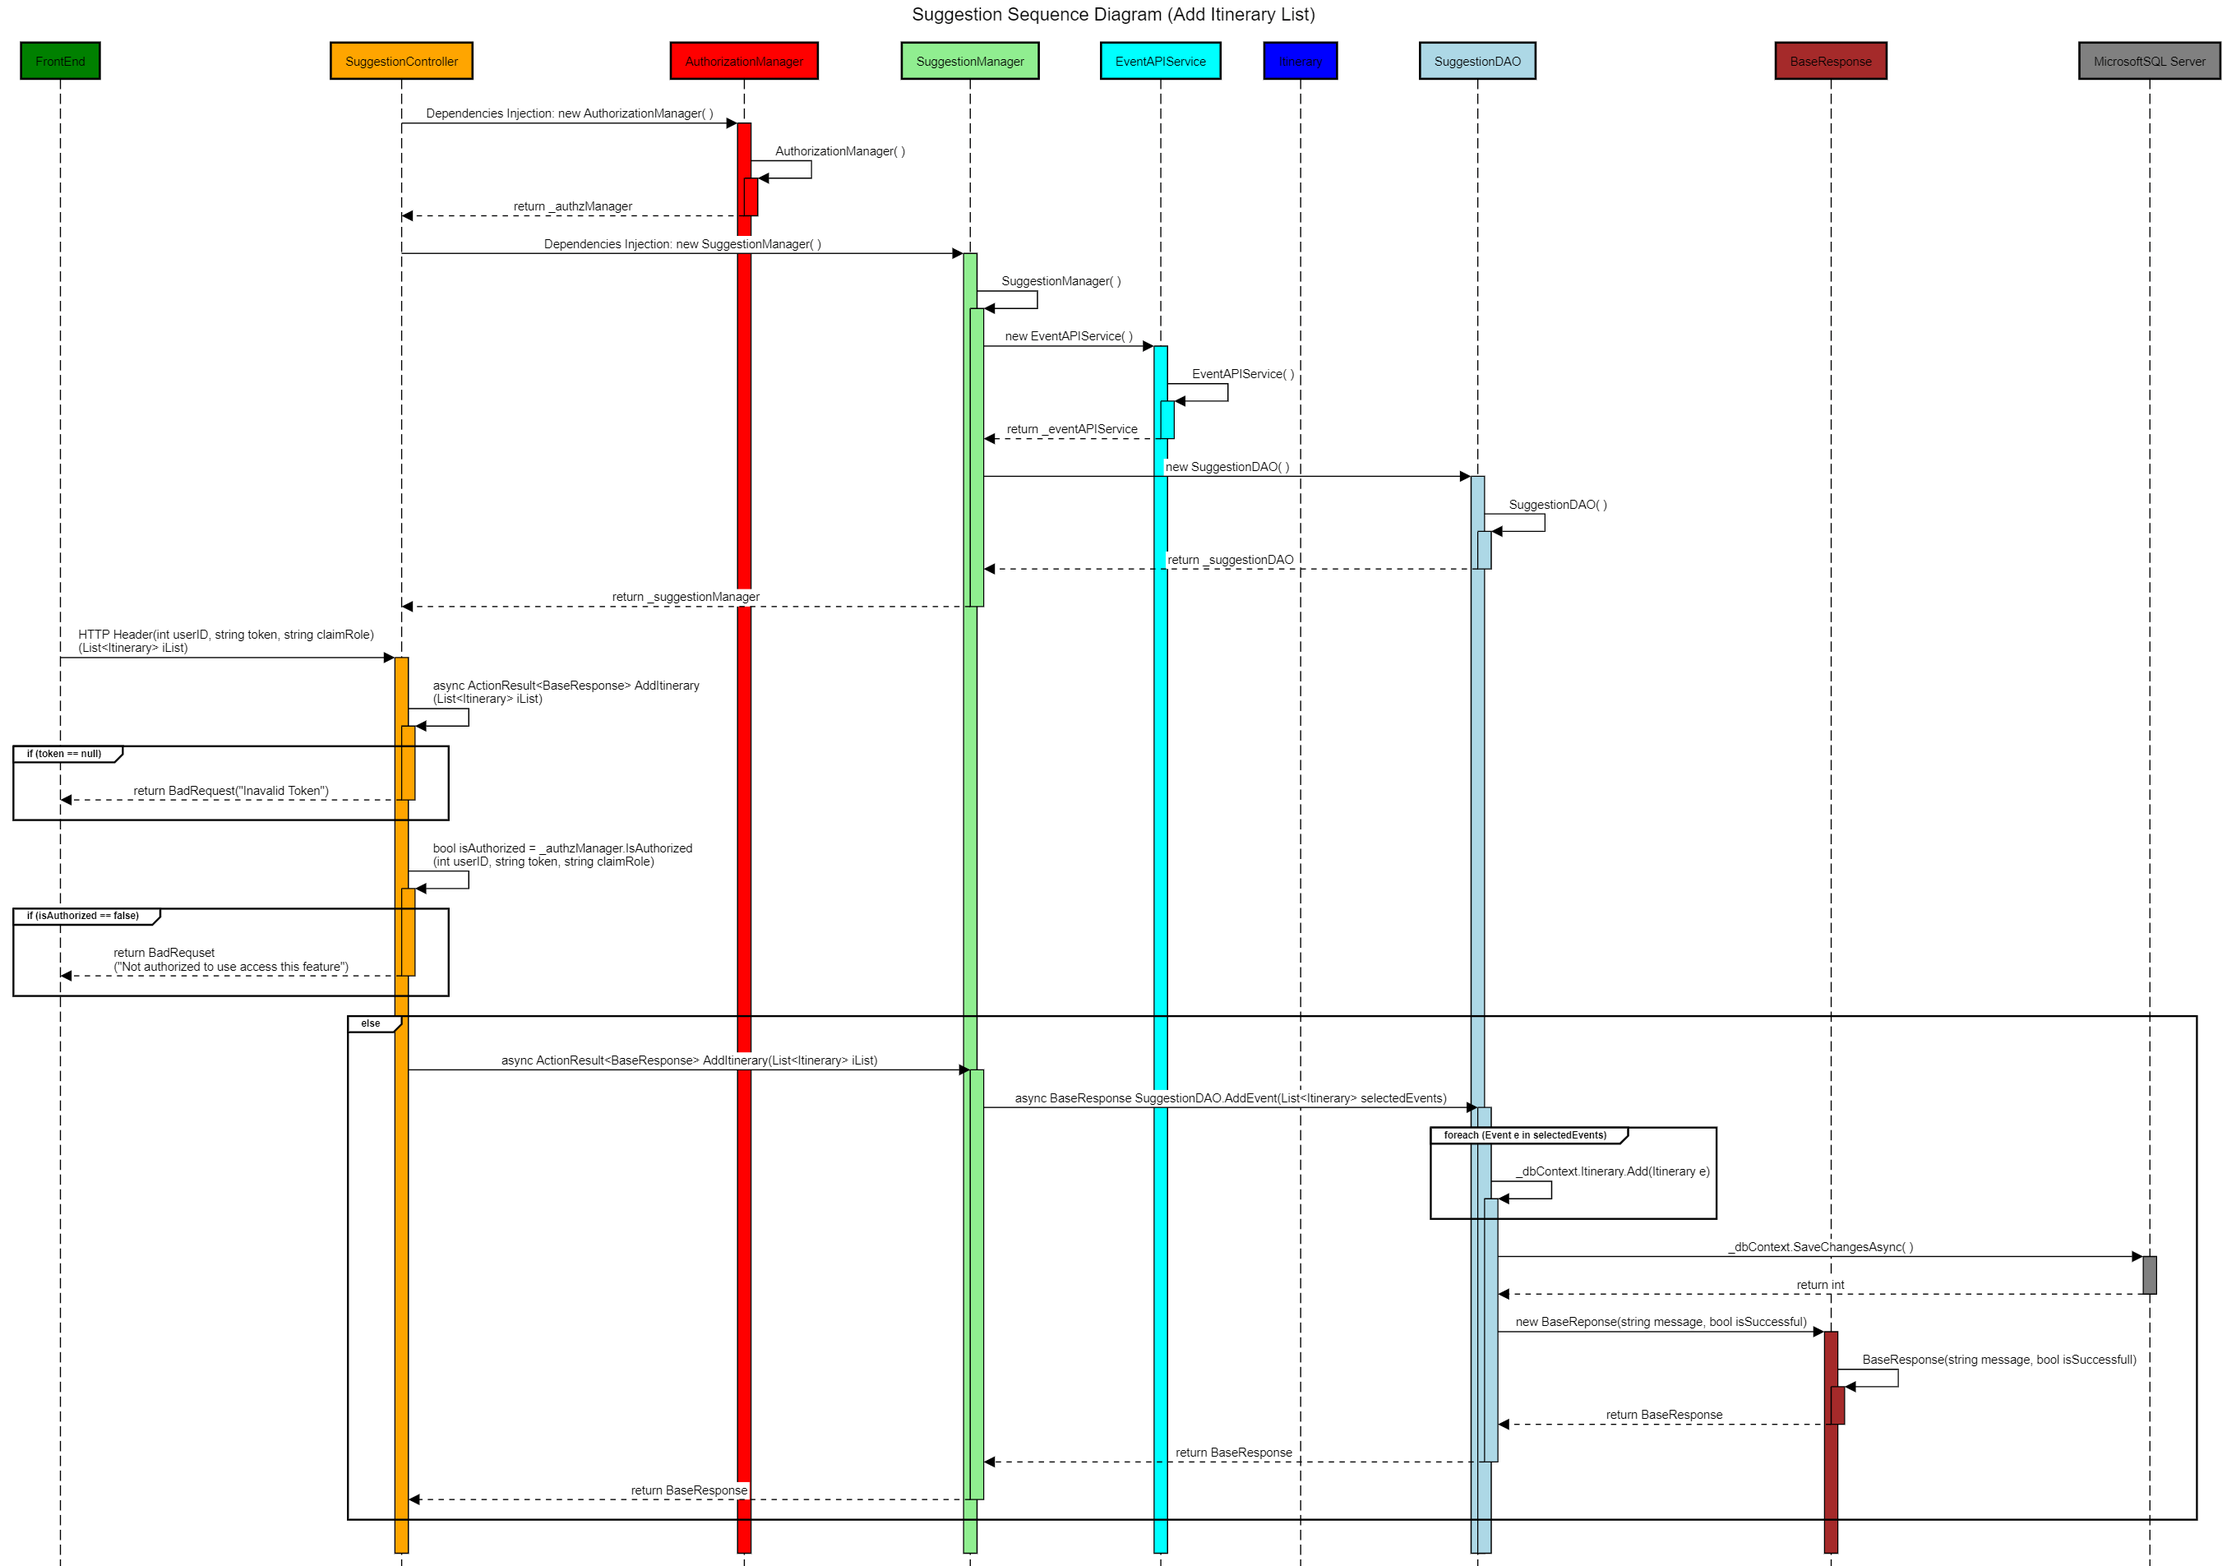
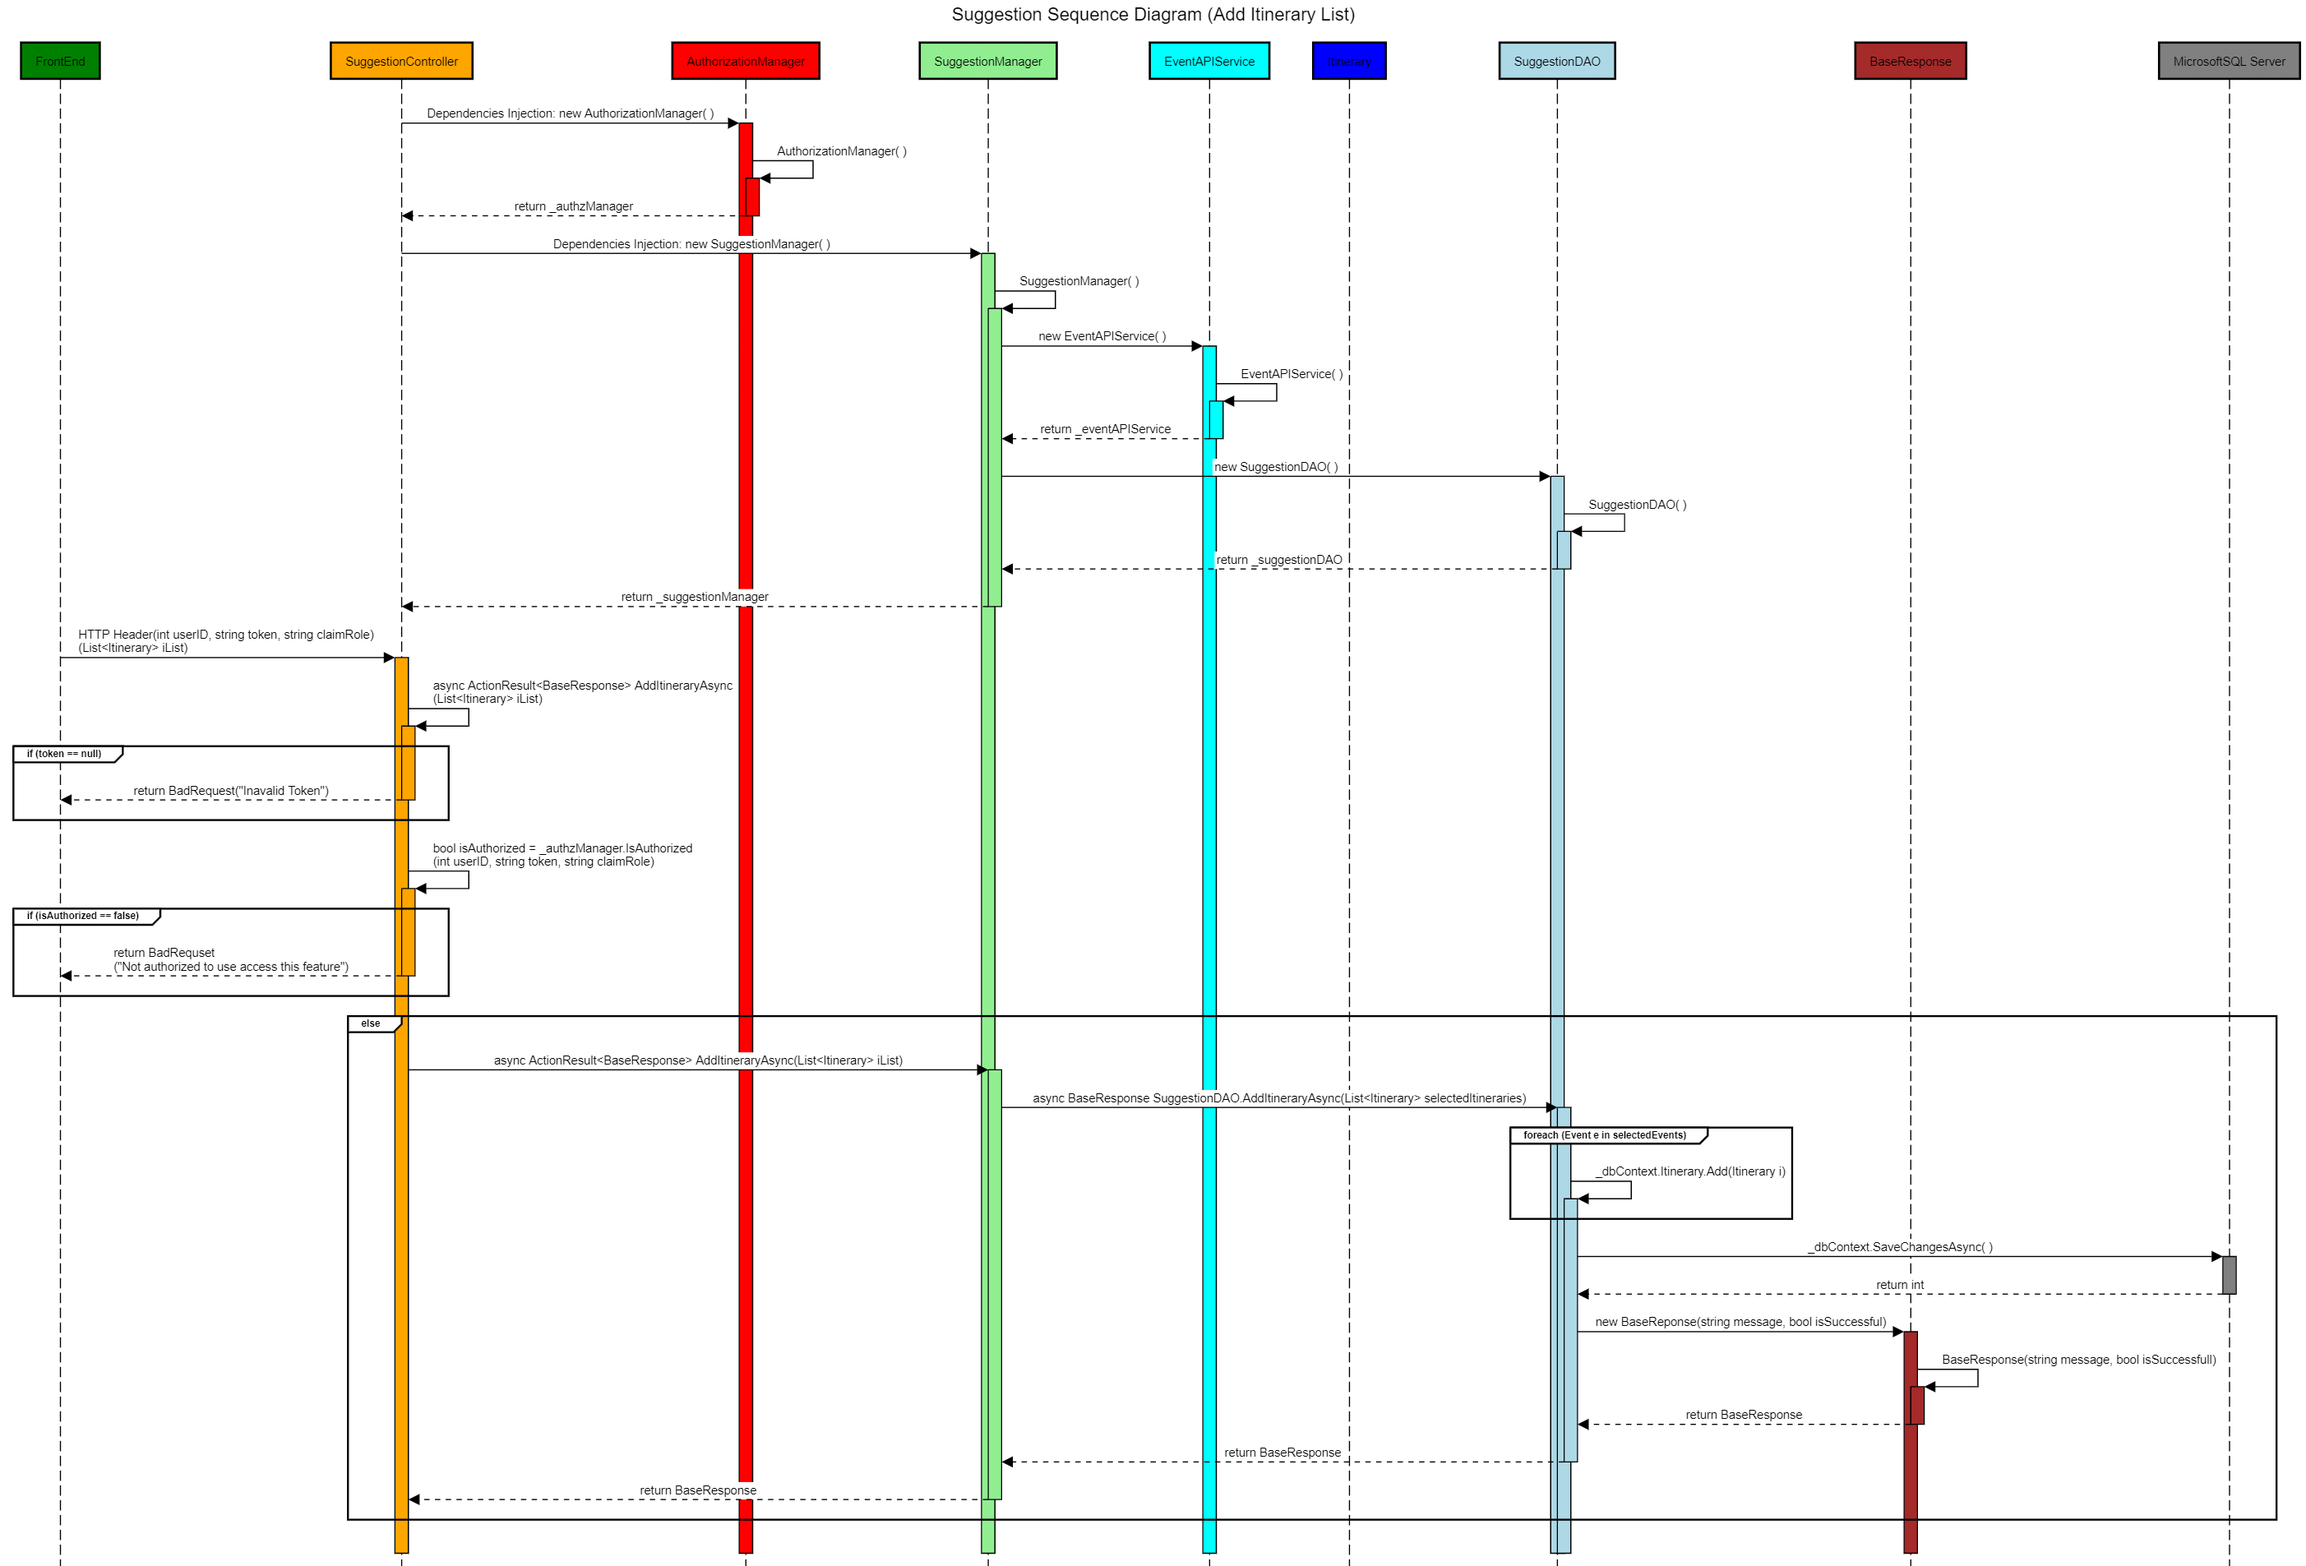
Fixed Add Itin LLD

diff --git a/MEetAndYouApp/MEetAndYouApp/BackEnd/Pentaskilled.MEetAndYou.DataAccess/Contracts/ISuggestionDAO.cs b/MEetAndYouApp/MEetAndYouApp/BackEnd/Pentaskilled.MEetAndYou.DataAccess/Contracts/ISuggestionDAO.cs
@@ -19,6 +19,7 @@ namespace Pentaskilled.MEetAndYou.DataAccess.Contracts
         Task<CategoryResponse> GetAllCategory();
         Task<BaseResponse> isUserOwner(int userID, int itineraryID);
         DateTime DateConversion(string date);
+        Task<BaseResponse> AddItineraryAsync(List<Itinerary> iList);
 
     }
 }
